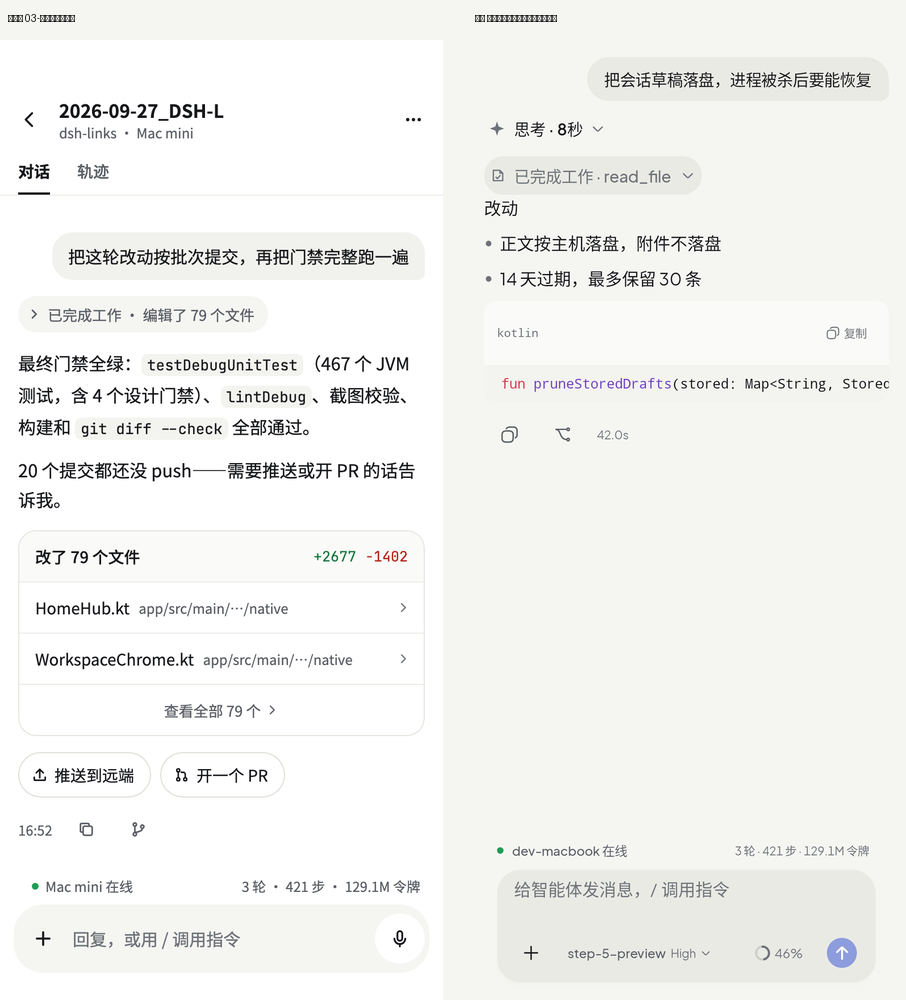
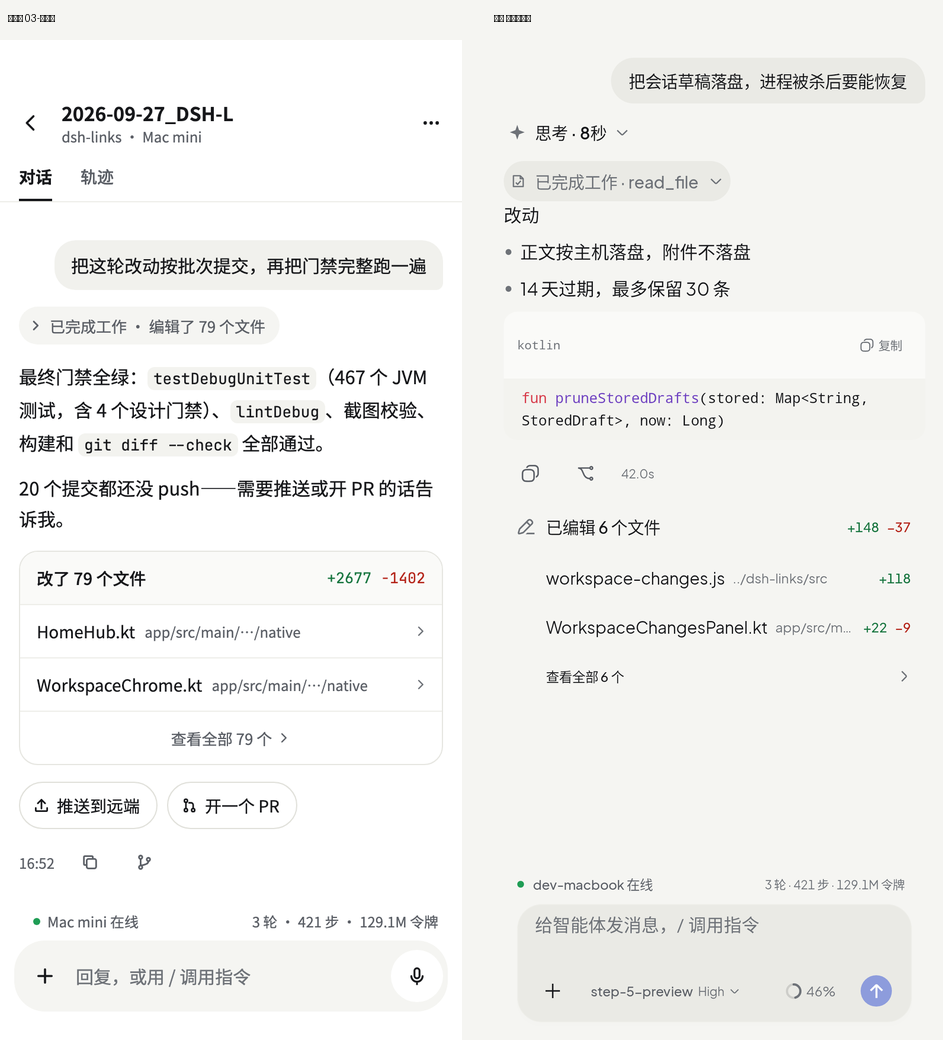
test(android): 整页墙补改动卡，03 对照与稿子同构（阶段 10 之九）
给整页墙的样例补一条 workspace/changes 消息，整页顺序现在与稿 03 完全同构：
气泡 → 思考 → 过程折叠行 → 正文 → 代码块（换行）→ 轮末行 → 改动卡 → 底部区。

补样例时踩到第二个同型样例坑：ChangedFile.name 取的是 **display 的最后一段**，所以 display 必须是
完整文件路径；我第一版传了目录，卡片把目录名「src」「native」当成了文件名，看起来像产品 bug。
查证后确认是样例的问题（实现里 name/directory 都由 display 派生，约定就是这样），已在样例里写明。

README 与 03 整页对照图同步更新。门禁五条全绿。

diff --git a/apps/android/app/src/screenshotTest/kotlin/dev/deeplinks/screenshot/ChatFeedScreenshotTest.kt b/apps/android/app/src/screenshotTest/kotlin/dev/deeplinks/screenshot/ChatFeedScreenshotTest.kt
@@ -25,6 +25,9 @@ import dev.deeplinks.core.LocalDshStrings
 import dev.deeplinks.core.dshTypography
 import dev.deeplinks.native.DshSpace
 import dev.deeplinks.native.MessageItem
+import dev.deeplinks.native.ChangedFile
+import dev.deeplinks.native.WorkspaceChangesSummary
+import dev.deeplinks.native.ROLE_WORKSPACE_CHANGES
 import androidx.compose.foundation.lazy.LazyColumn
 import androidx.compose.runtime.remember
 import androidx.compose.runtime.rememberCoroutineScope
@@ -110,6 +113,30 @@ private val completedTurn = listOf(
             |```
         """.trimMargin(),
         durationMs = 42_000,
+    ),
+    // 整页墙要展示改动卡（稿 03 里正文之后就是它），所以这一轮补一条 workspace_changes
+    MobileMessage(
+        id = "c1",
+        role = ROLE_WORKSPACE_CHANGES,
+        text = "",
+        changes = WorkspaceChangesSummary(
+            seq = 120,
+            turn = 7,
+            total = 6,
+            added = 148,
+            deleted = 37,
+            files = listOf(
+                // 注意 ChangedFile.name 取的是 display 的最后一段，所以 display 必须是**完整文件路径**
+                // （第一版我传了目录，卡片就把目录名当成了文件名——样例的坑，不是产品的坑）
+                ChangedFile("src/workspace-changes.js", "../dsh-links/src/workspace-changes.js", added = 118),
+                ChangedFile(
+                    "WorkspaceChangesPanel.kt",
+                    "app/src/main/java/dev/deeplinks/native/WorkspaceChangesPanel.kt",
+                    added = 22,
+                    deleted = 9,
+                ),
+            ),
+        ),
     ),
 )
 

diff --git a/apps/android/docs/redesign-side-by-side/README.md b/apps/android/docs/redesign-side-by-side/README.md
@@ -80,5 +80,9 @@
 3. **代码块长行的疑点已查清**：一度看起来被右边缘截断，实际是 `horizontalScroll`（可以拖），
    不是硬裁；但稿 03 的代码块是**自动换行**的，所以照稿改成换行——真机上不用拖才能看全一行代码。
 
-**仍缺一件事**：整页墙的样例里没有 `workspace/changes` 消息，所以**改动卡没出现**在整页图里
-（它由 `changes card` 那面墙单独覆盖）。要让整页图与稿 03 完全同构，需要给样例补一条改动消息。
+4. **改动卡已进入整页图**：给样例补了一条 `workspace/changes` 消息，整页现在的顺序与稿 03 完全
+   同构（气泡 → 思考 → 过程折叠行 → 正文 → 代码块 → 轮末行 → 改动卡 → 底部区）。
+
+补样例时又踩到一个样例坑（第二次同型）：`ChangedFile.name` 取的是 **`display` 的最后一段**，
+所以 `display` 必须是完整文件路径——我第一版传了目录，卡片就把目录名「src」「native」当成了文件名，
+看起来像产品 bug。已在样例里写明这条约定。
